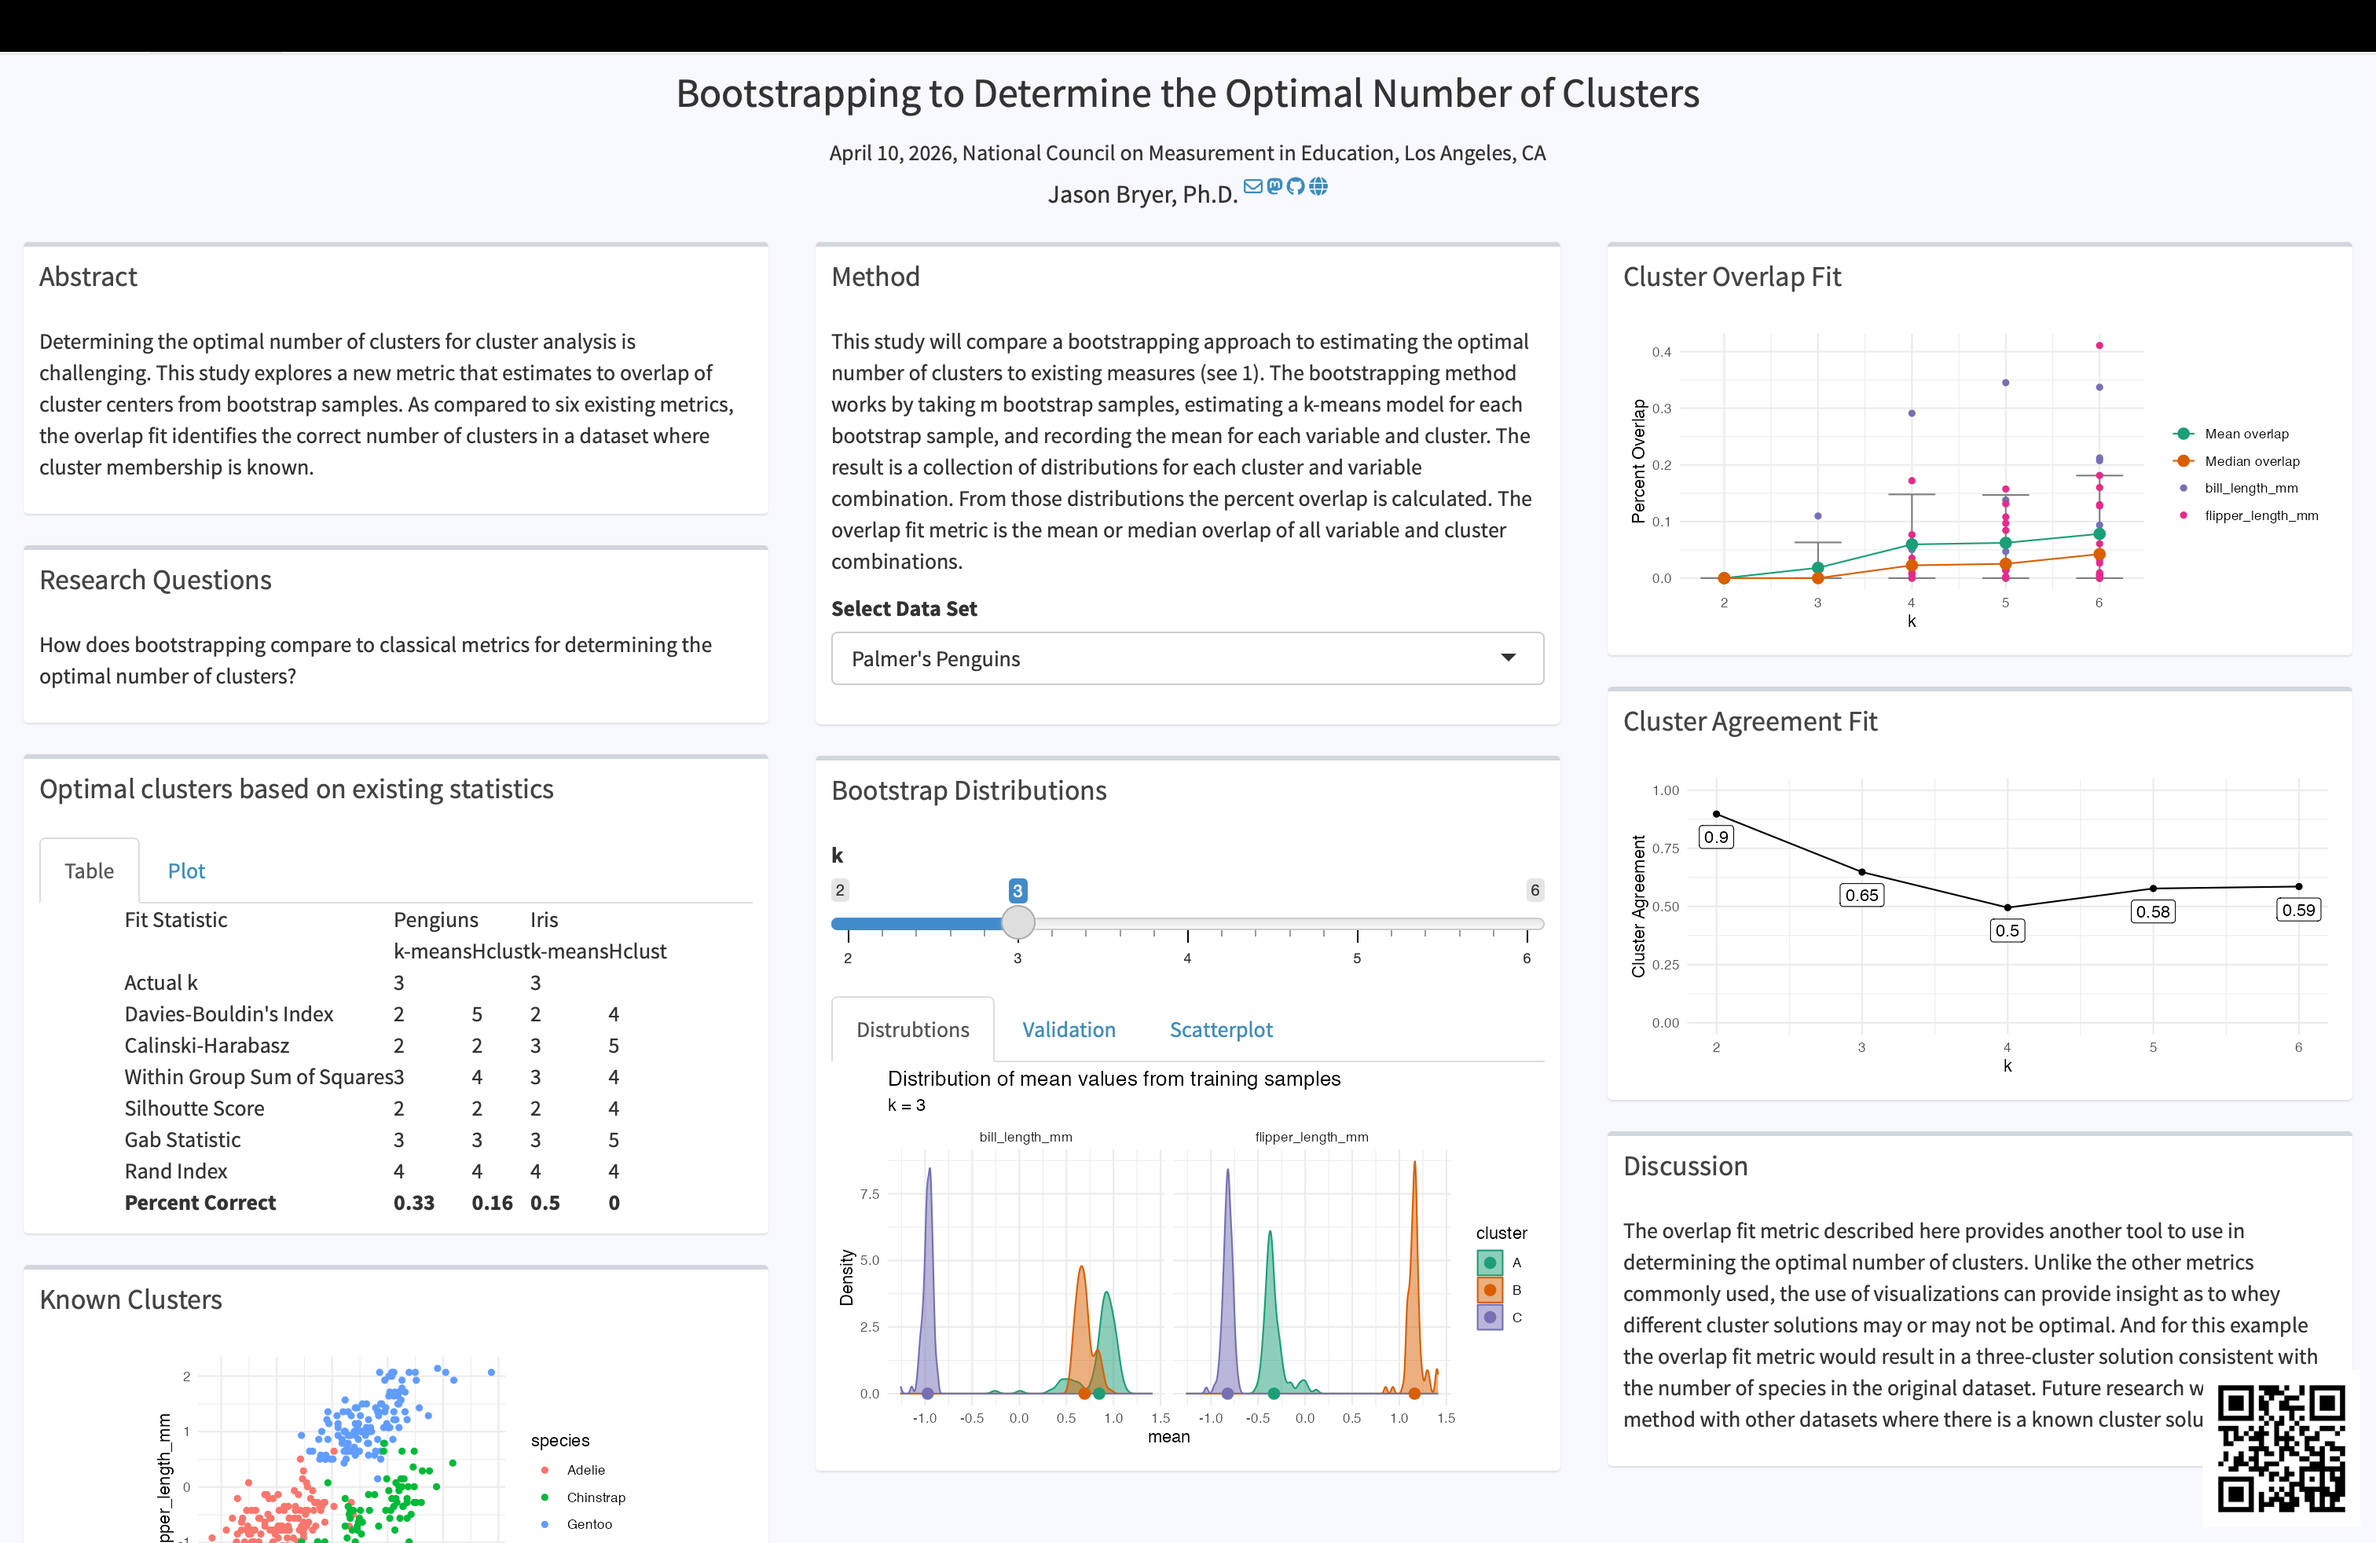
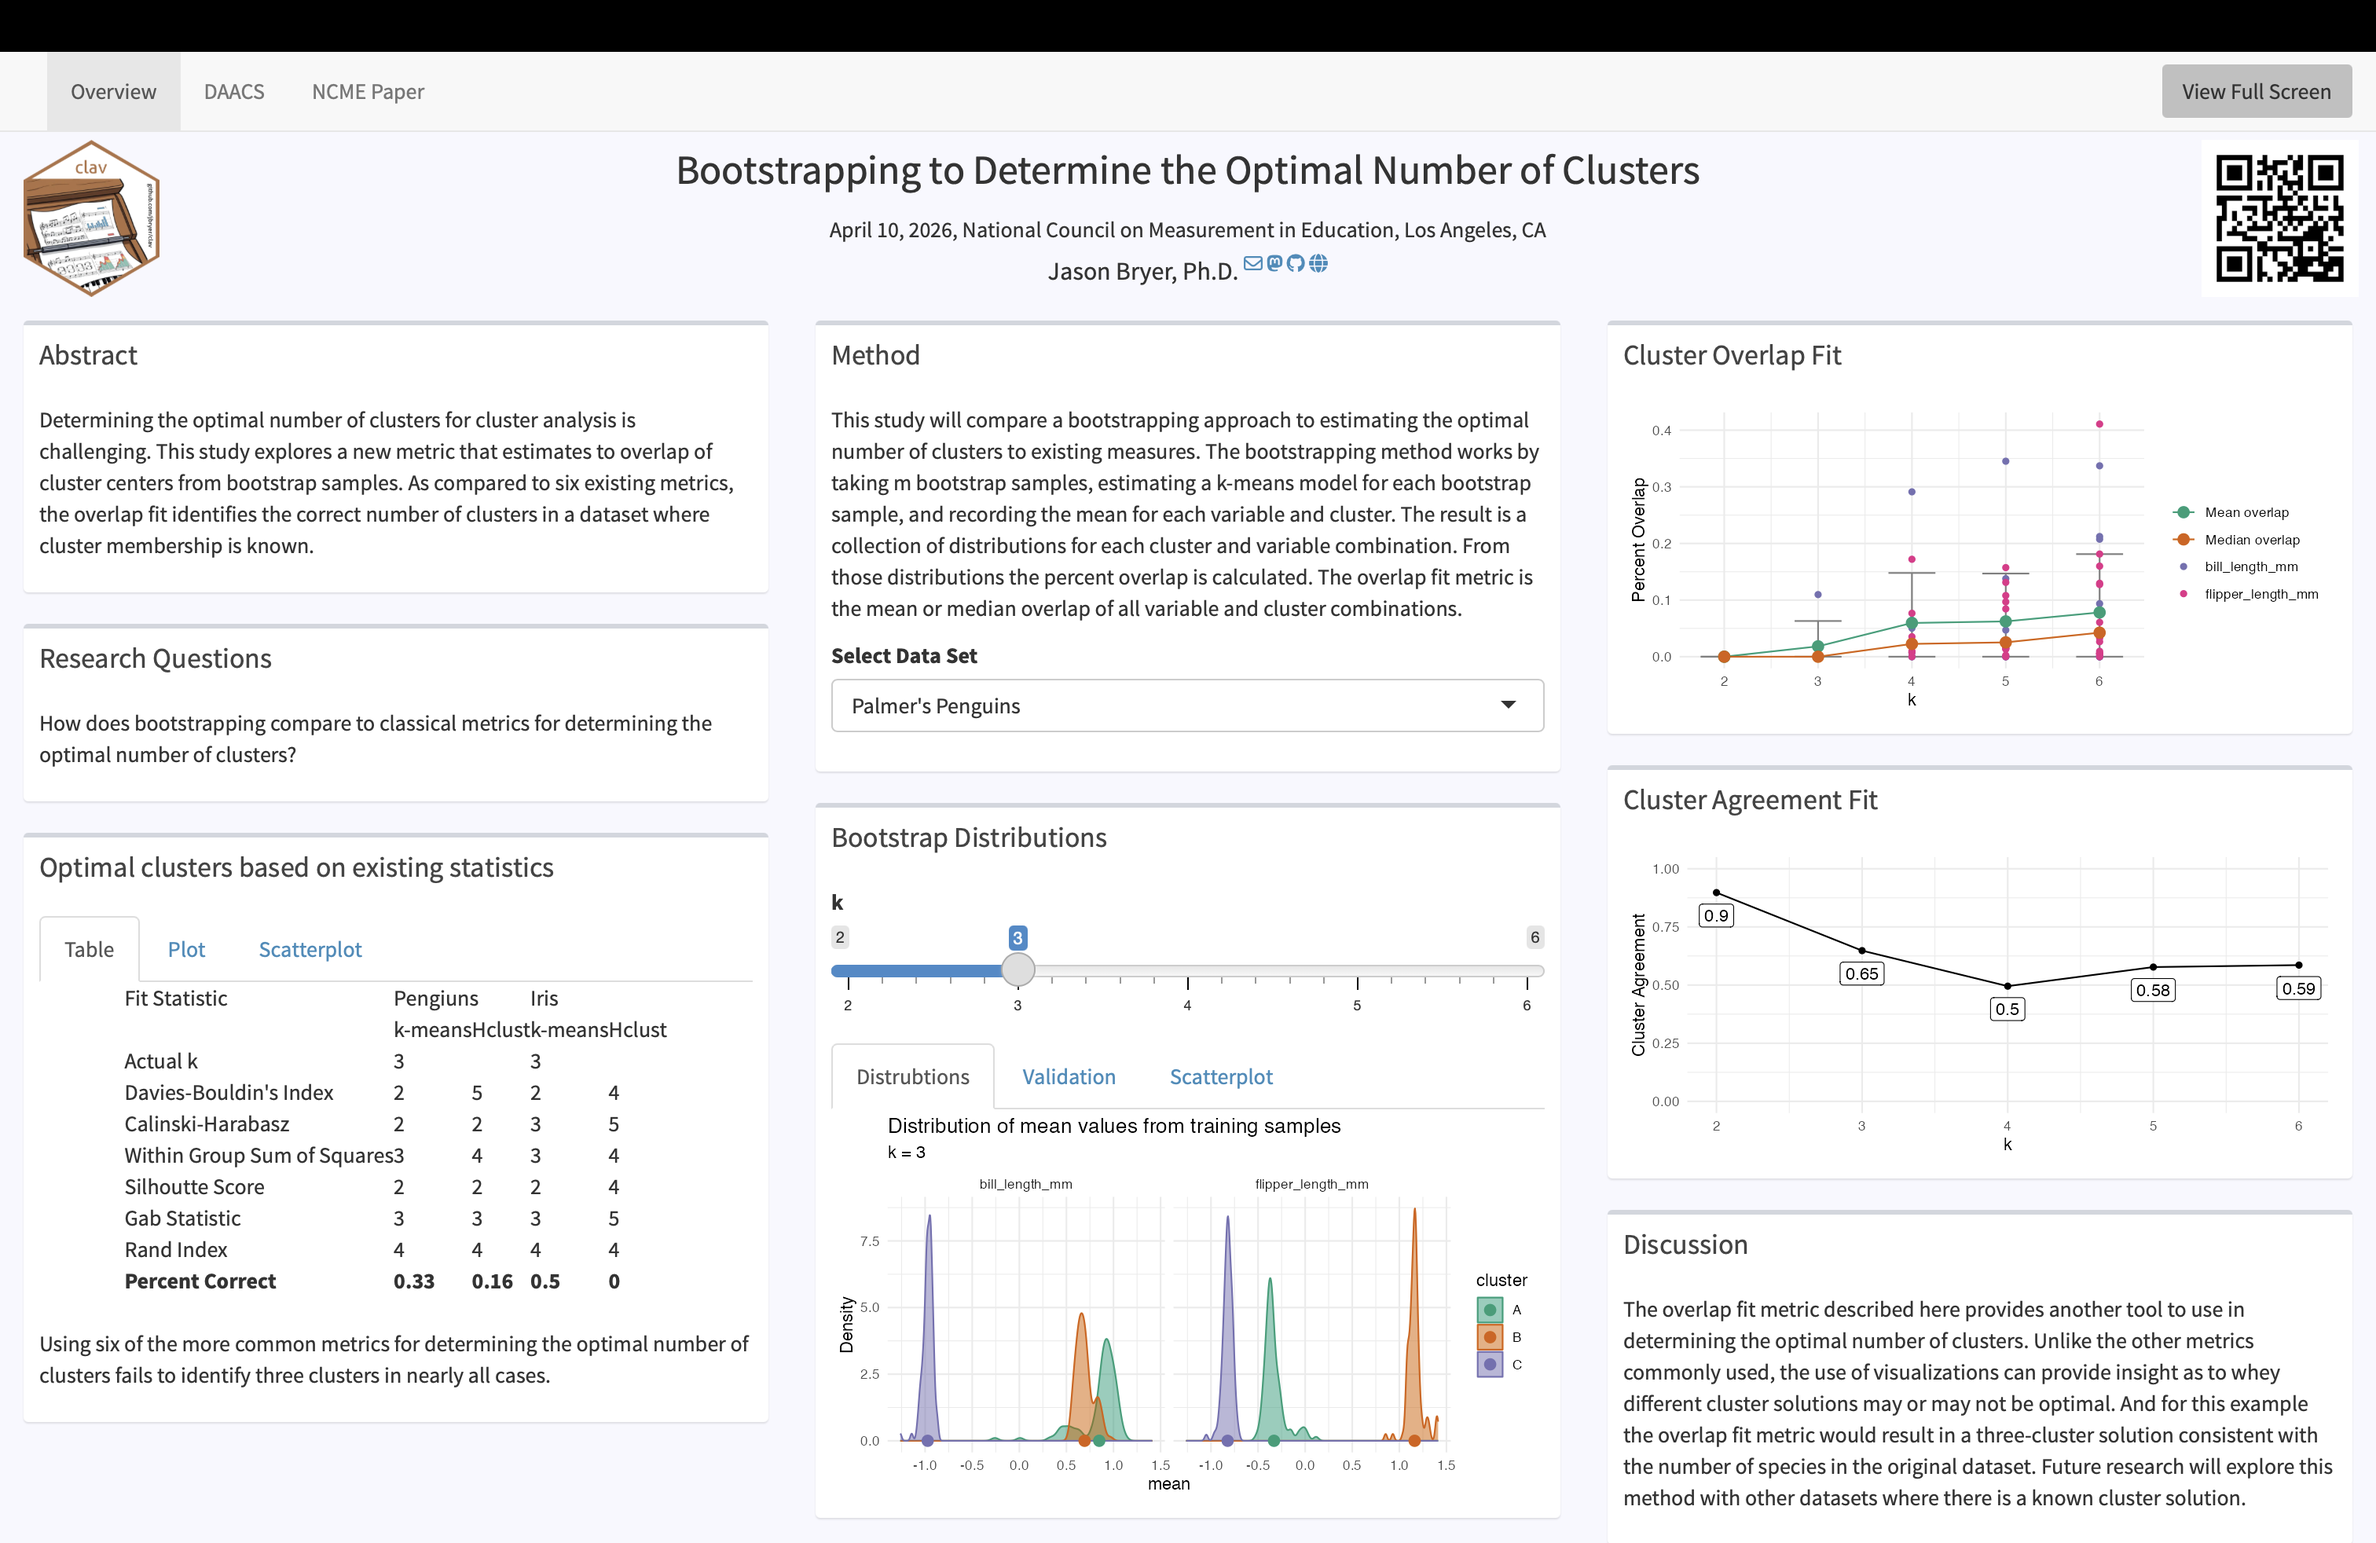
Poster updates.

diff --git a/poster/docs/daacs.md b/poster/docs/daacs.md
@@ -1,0 +1,9 @@
+The [Diagnostic Assessment and Achievement of College Skills](https://daacs.net) (DAACS) is a suite of technological and social supports designed to optimize student learning. Students complete assessments in self-regulated learning, writing, mathematics, and reading. The receive immediate feedback in terms of one, two, or three dots (developing, emerging, and mastering, respectively) along with personalized feedback and strategy recommendations.
+
+The goal of this project is to determine if student profiles can be derived from the six main domains: metacognition, strategy use, motivation, writing, mathematics, and reading. If profiles can be estimated this can inform potential future interventions that can vary depending on the students response profile.
+
+The `clav` package was initial designed to test validity of the profiles by repeating split training and validation datasets to look for consistency in the profiles across the two datasets. This has been extended to also allow for using bootstrap samples where cluster profiles are estimated using an "in-bag" sample and then clusters are predicted using the "out-of-bag" sample. This also introduces two new fit statistics:
+
+* The *cluster overlap fit* is a measure of the overlapping distributions of cluster centers for both samples across all variables. Smaller values are desirable since we are looking for separation in cluster centers within each variable. This can also be a useful model diagnostic for determining which variables inform cluster membership.
+
+* The *cluster agreement fit* measures the proportion of observations that are assigned to the same cluster with all other observations. That is, an observation with an overlap measure of 1 means that it always belongs to the same cluster with all of its neighbors.

diff --git a/poster/docs/paper.md b/poster/docs/paper.md
@@ -178,3 +178,40 @@ example the overlap fit metric would result in a three-cluster solution
 consistent with the number of species in the original dataset. Future
 research will explore this method with other datasets where there is a
 known cluster solution.
+
+# References
+
+Calinski, T., & Harabasz, J. (1974). A dendrite method for cluster
+analysis. *Communications in Statistics, 3*(1), 1–27.
+<https://doi.org/10.1080/03610927408827101>
+
+Carpineto, C., & Romano, G. (2012). Consensus clustering based on a new
+probabilistic rand index with application to subtopic retrieval. *IEEE
+Transactions on Pattern Analysis and Machine Intelligence, 34*(12),
+2315–2326. <https://doi.org/10.1109/TPAMI.2012.80>
+
+Davies, D. L., & Bouldin, D. W. (1979). A cluster separation measure.
+*IEEE Trans. Pattern Anal. Mach. Intell., PAMI-1*(2), 224–227.
+
+Horst, A. M., Hill, A. P., & Gorman, K. B. (2020). *Palmerpenguins:
+Palmer archipelago (Antarctica) penguin data.*
+<https://doi.org/10.5281/zenodo.3960218>
+
+Rousseeuw, P. J. (1987). Silhouettes: A graphical aid to the
+interpretation and validation of cluster analysis. *J. Comput. Appl.
+Math., 20*, 53–65.
+
+Theodoridis, S., & Koutroumbas, K. (2008). *Pattern recognition* (4th
+ed.). USA: Academic Press, Inc.
+
+Thorndike, R. L. (1953). Who belongs in the family? *Psychometrika,
+18*(4), 267–276.
+
+Tibshirani, R., Walther, G., & Hastie, T. (2001). Estimating the number
+of clusters in a data set via the gap statistic. *J. R. Stat. Soc.
+Series B Stat. Methodol., 63*(2), 411–423.
+
+Ullmann, T., Hennig, C., & Boulesteix, A.-L. (2022). Validation of
+cluster analysis results on validation data: A systematic framework.
+*WIREs Data Mining and Knowledge Discovery, 12*(3), e1444.
+<https://doi.org/https://doi.org/10.1002/widm.1444>

diff --git a/poster/docs/method.md b/poster/docs/method.md
@@ -1,5 +1,5 @@
 This study will compare a bootstrapping approach to estimating the optimal number of
-clusters to existing measures (see 1). The bootstrapping method works by taking m bootstrap
+clusters to existing measures. The bootstrapping method works by taking m bootstrap
 samples, estimating a k-means model for each bootstrap sample, and recording the mean for each
 variable and cluster. The result is a collection of distributions for each cluster and variable
 combination. From those distributions the percent overlap is calculated. The overlap fit metric is
